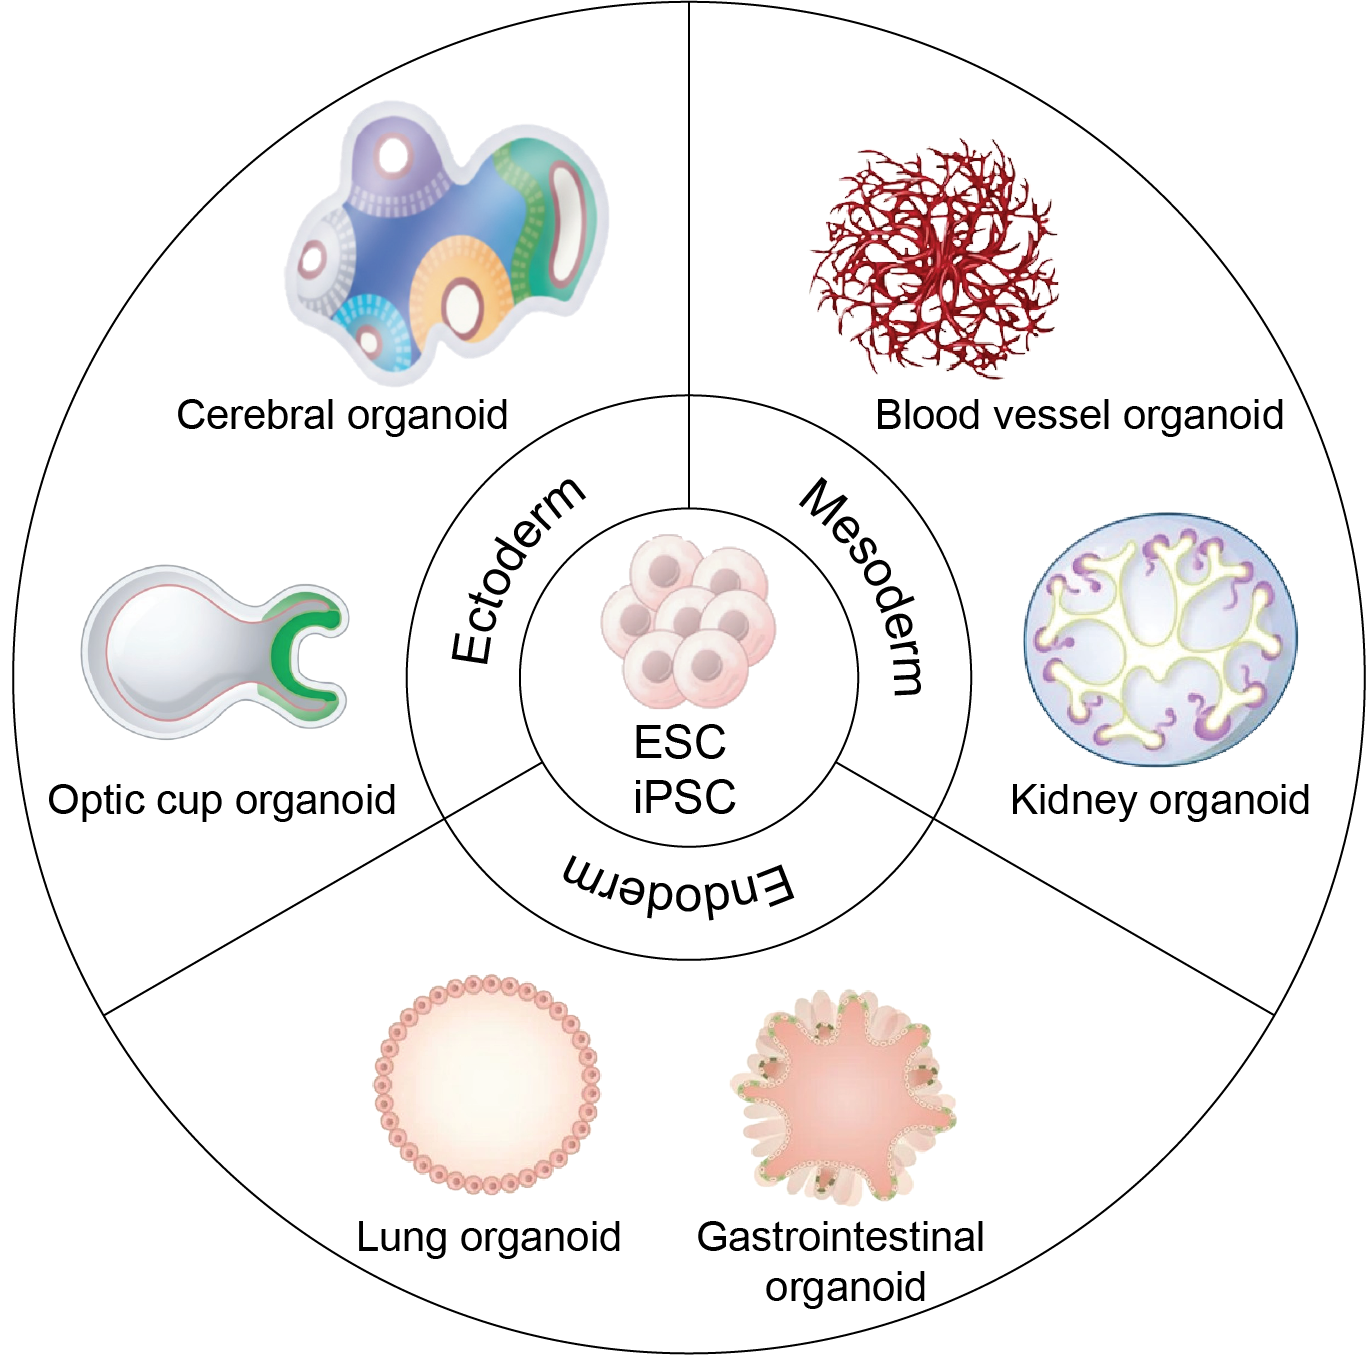
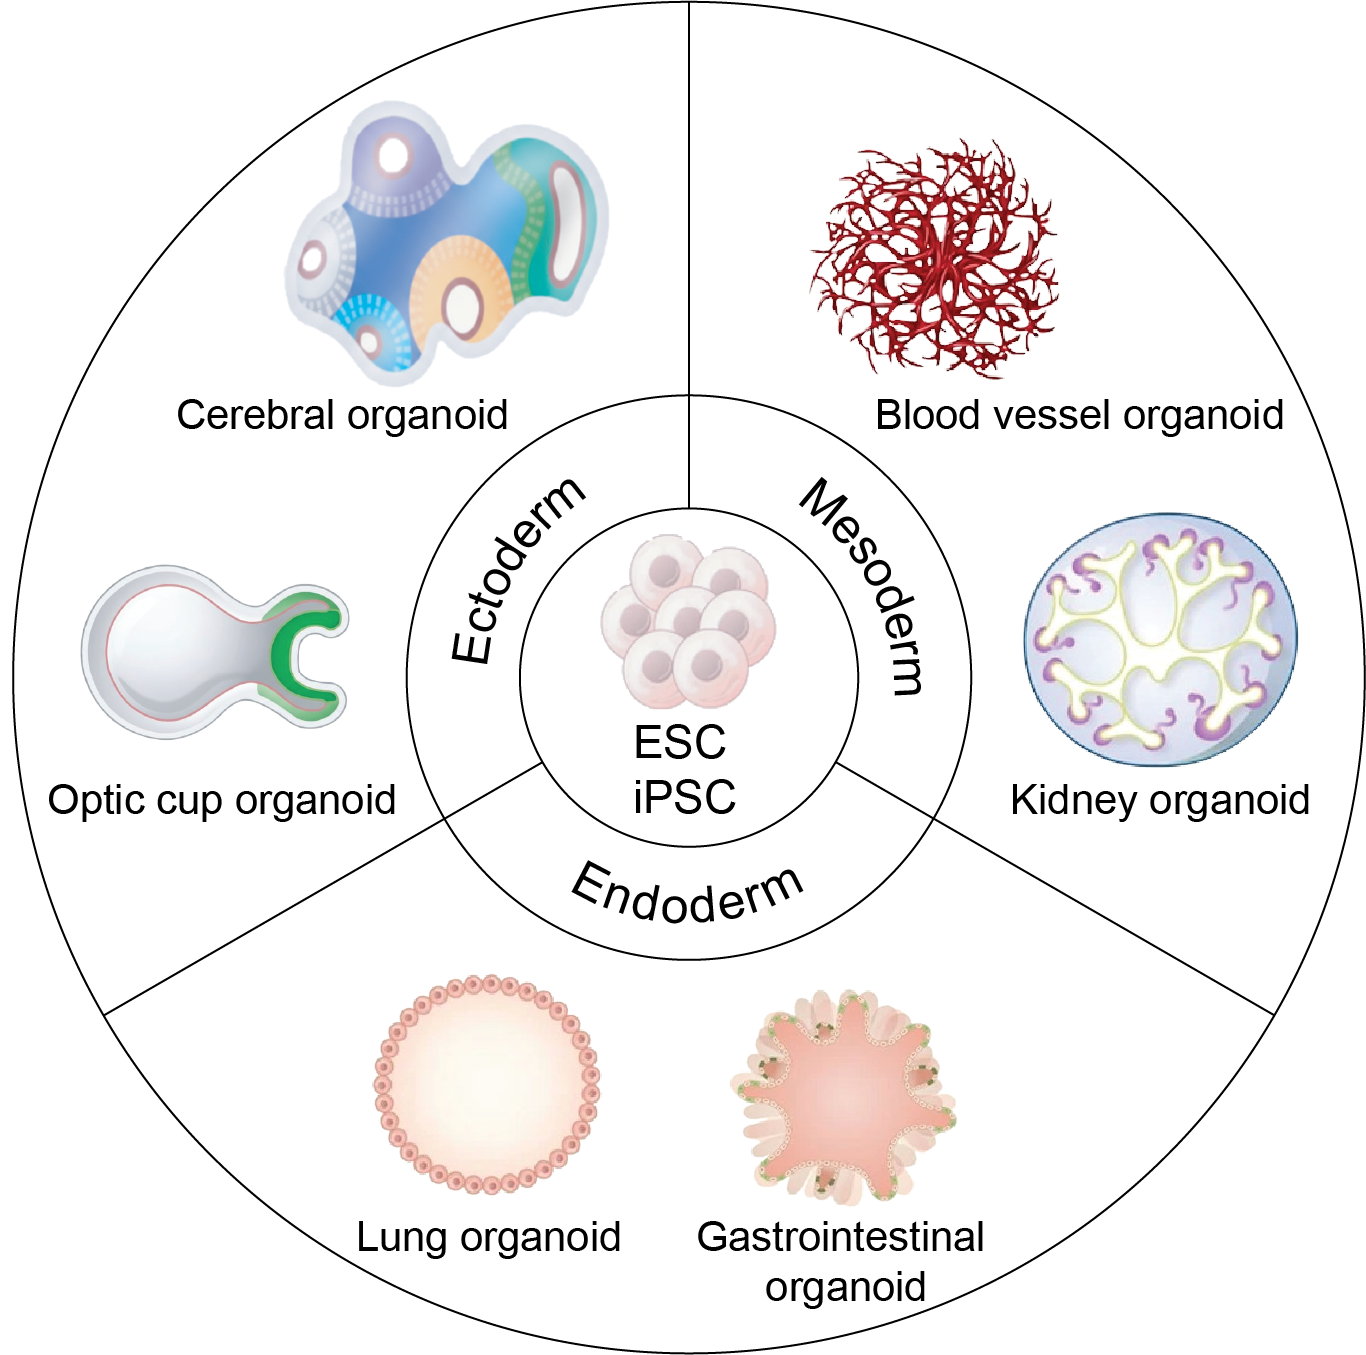
res intro new design

Changed region(s): [[0.3997, 0.6199, 0.5842, 0.6819], [0.3382, 0.093, 0.4305, 0.248], [0.246, 0.217, 0.2767, 0.248]]

diff --git a/research/index.md b/research/index.md
@@ -18,7 +18,19 @@ Ut enim ad minim veniam, quis nostrud exercitation ullamco laboris nisi ut aliqu
 
 ## Brief introduction
 
+{% capture text %}
+
 The vision of regenerative medicine starts with reprogramming patient's own cells to induced pluripotent stem cells (iPSCs) that can then be differentiated into any cell type of interest. these cells can be undergoing differntiation in vitro to model human development in 3D organoids format and used for disease modeling and drug screening. Alternatively, these cells can be directly differentiated into specific cell types for cell therapy applications. Our lab is interested in understanding the molecular mechanisms that govern cell fate decisions during human development and leveraging this knowledge to improve the efficiency and safety of cell reprogramming and differentiation processes for regenerative medicine applications.
+
+{% endcapture %}
+
+{%
+  include feature.html
+  image="images/research/stem-cell-organoid_redesign.png"
+  title="**stem cell and orgnanoids**"
+  style="bare"
+  text=text
+%}
 
 {% include figure.html
    image="images/research/stem-cell-organoid.png"
